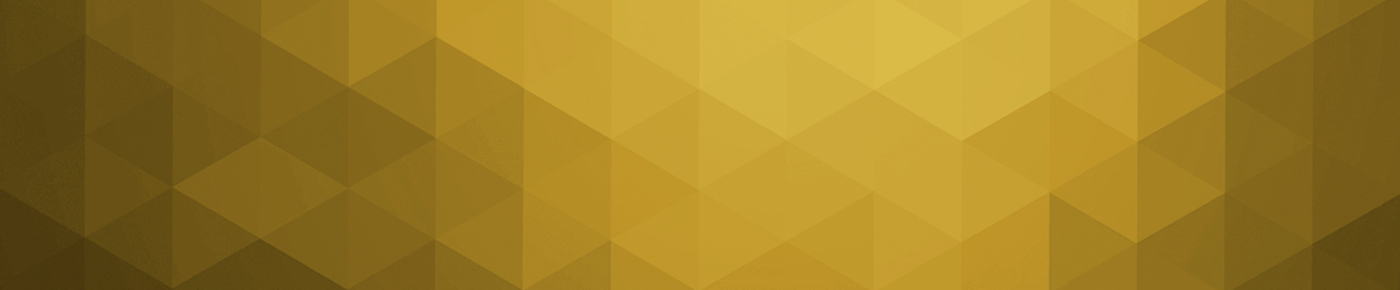
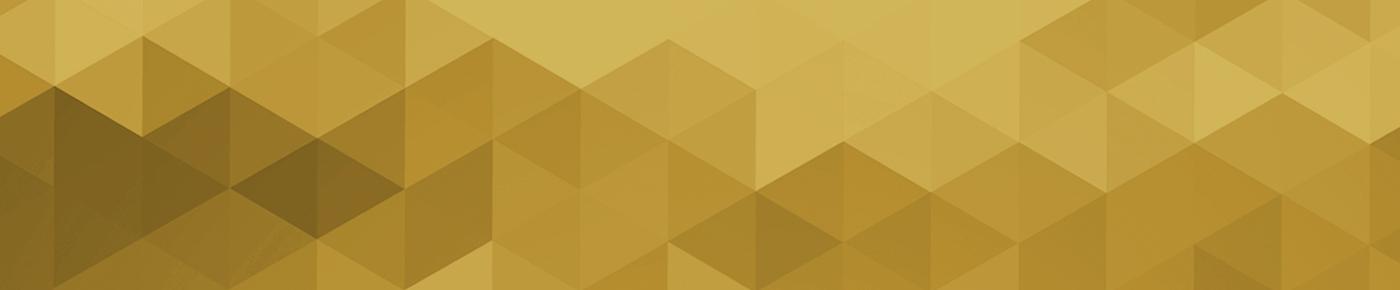
Corrections to some masthead images

diff --git a/assets/scss/_components.hero.scss b/assets/scss/_components.hero.scss
@@ -67,12 +67,12 @@ p.hero__text {
 .hero--front {
     background-image: url('../images/digital-honeycomb-3.jpg');
     background-repeat: no-repeat;
-    // background-position: -700px 0;
-    background-position: -600px 0;
+    background-position: -700px 0;
+    // background-position: -600px 0;
     // margin-bottom: 0;
   .diagonals {
-    // padding: $spacing-unit 0 quadruple($spacing-unit) 340px;
-    padding: $spacing-unit 0 85px 340px;
+    padding: $spacing-unit 0 quadruple($spacing-unit) 340px;
+    // padding: $spacing-unit 0 85px 340px;
     // background-image: url('../images/hero-diagonal-bars.png');
     // background-repeat: no-repeat;
     // background-position: -10px 0;
